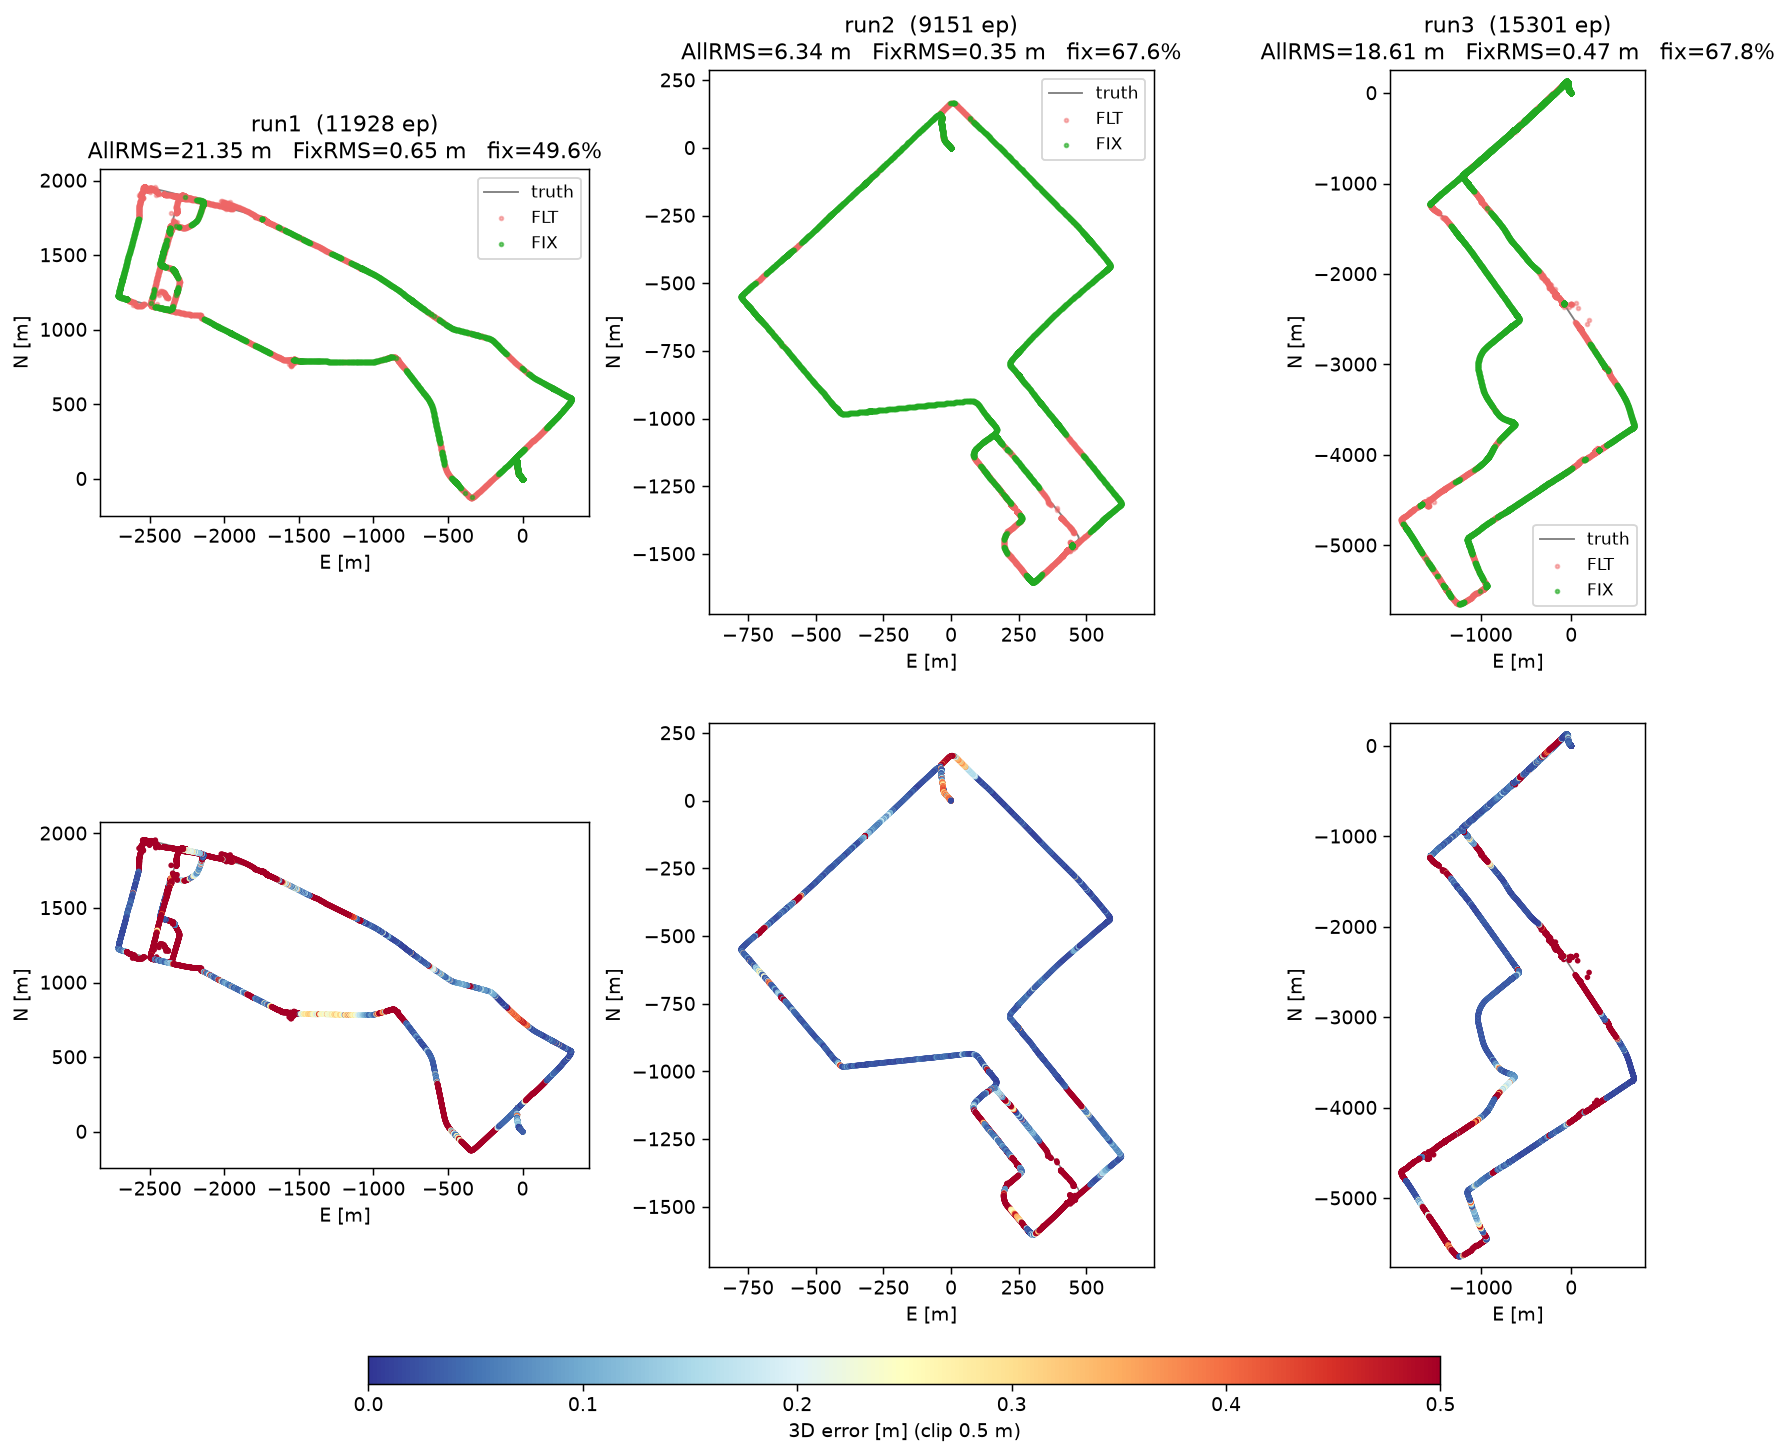
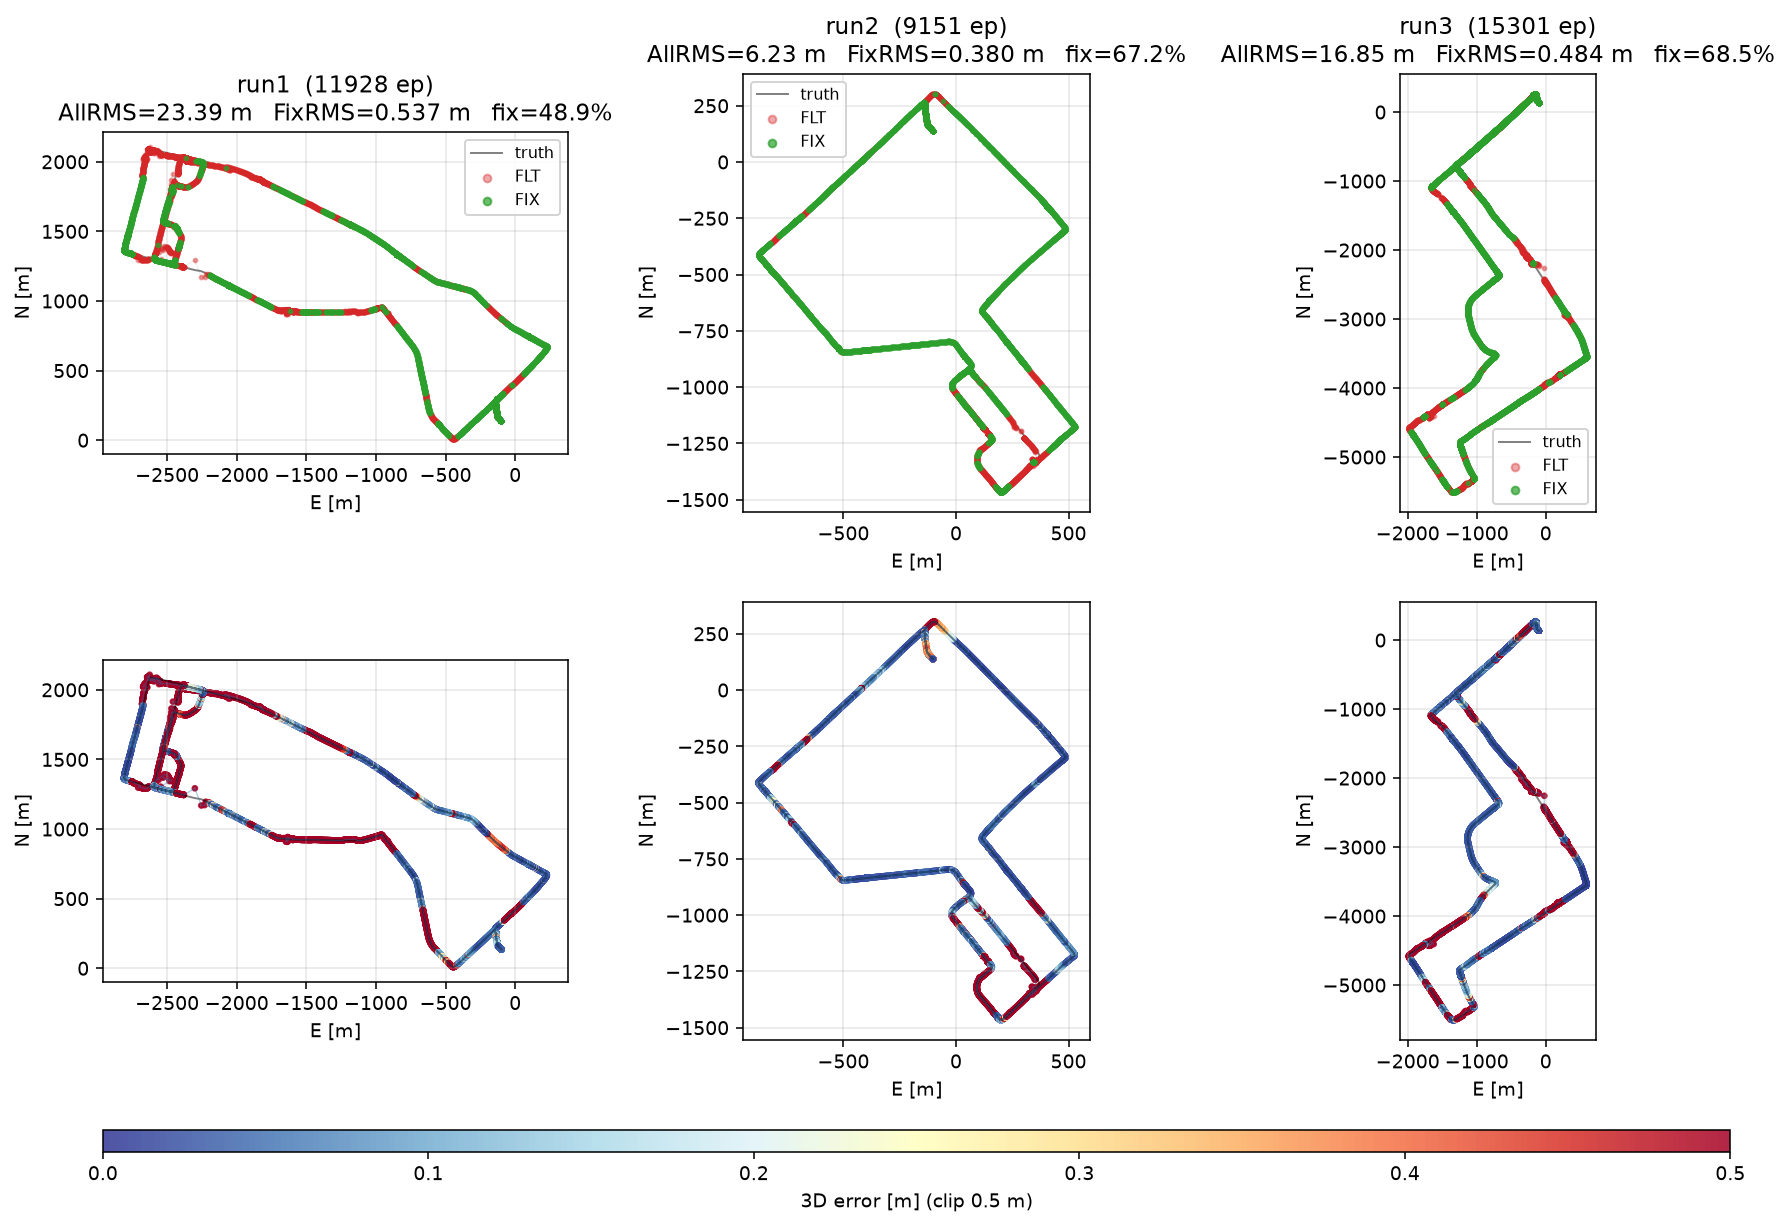
Phase-1 AR goes native: cssrlib resamb path retired (#32)
* Phase-1 AR goes native too: the cssrlib resamb path is gone

The old verdict — phase-1 native is ULP-chaotic, measured 35.49 — was
a misdiagnosis. The real failure: ar_problem.build read tc.isam2,
which is None until the Phase-2 transition (Phase 1 estimates on
tc.isam, the short-lag FLS), so every phase-1 epoch was
problem-unposed and the run never fixed at all (33.98 reproduced).
With the phase-aware smoother pick, phase-1 epochs match the cssrlib
baseline to print precision and the remaining forks are storm-zone
draw differences.

Also normalize a degenerate LAMBDA outcome at its source: held
ambiguities re-enter the search as exact fits, s0 collapses to FP
noise, and s1/s0 measures nothing — yet whichever garbage the FP draw
produced (an exact 0.0 or a denormal) was recorded and persisted in
prev_ratio2, arming or disarming the demo5 exclusion retry for every
later epoch. Clamp s0 to zero below a relative noise floor: the fix
itself is still accepted, only the no-information ratio is recorded
as such. This cut run1's native runaway (35.24 -> 23.29, vs pin
21.35; the residual gap is NLOS-storm lottery — the pinned draw's
own 10 m wrong fixes happen to anchor its float there).

Three-run A/B (AllRMS/FixRMS), single-machine sequential:
pin 21.3508/0.6449, 6.3376/0.3504, 18.6124/0.4727;
this branch 23.2939/0.7122, 6.3442/0.3509, 19.7163/0.5005.
Bit-parity with the pins is unreachable by construction in the
degenerate-hold regime; the open follow-up (which prev_ratio2
[…]

diff --git a/src/gnss_fgo/ar/__init__.py b/src/gnss_fgo/ar/__init__.py
@@ -10,7 +10,7 @@
 
 This package root wires them into the epoch flow (:func:`run_ar`) and keeps
 the monolith-era names importable -- callers and long-lived probes address
-``ar._resolve_native`` and friends unchanged.
+``ar._resolve`` and friends unchanged.
 """
 
 import numpy as np
@@ -25,17 +25,19 @@ from .ambiguity_resolver import AmbiguityResolver
 
 
 
-def _resolve_native(tc, sat_list, amb_dict):
-    """AR straight off the smoother, without the cssrlib nav round-trip.
+def _resolve(tc, sat_list, amb_dict):
+    """AR straight off the smoother (the only resolver since the cssrlib
+    resamb dispatch was retired).
 
     Three stages, one module each: :mod:`ar_problem` reads the smoother into
     a self-contained problem, :class:`AmbiguityResolver` fixes the integers,
     and :mod:`nav_bridge` publishes the side effects cssrlib's callers still
-    read. ``None`` means "fall back to the cssrlib path".
+    read. Always returns ``(nb, x)`` — a no-fix outcome is a result, not an
+    excuse to fall anywhere.
 
-    Equivalence with that path is measured, not assumed: shadowed in both
-    directions over tokyo run2 (4361 + 2422 calls) with identical nb and
-    ratio, and sequential 3000-epoch runs are line-identical.
+    Equivalence with the retired cssrlib dispatch was measured, not assumed:
+    shadowed in both directions over tokyo run2 (4361 + 2422 calls) with
+    identical nb and ratio, and sequential 3000-epoch runs line-identical.
     """
     problem = ar_problem.build(tc, sat_list, amb_dict)
     if problem is None:
@@ -83,10 +85,10 @@ def _resolve_native(tc, sat_list, amb_dict):
     return res.nb, xa
 
 
-def _resolve_native_retry(tc, sat_list, amb_dict):
-    """The demo5 retry policy around the native resolver (see ar_retry)."""
+def _resolve_with_retry(tc, sat_list, amb_dict):
+    """The demo5 retry policy around the resolver (see ar_retry)."""
     return ar_retry.run(
-        tc, sat_list, lambda t, sl: _resolve_native(t, sl, amb_dict))
+        tc, sat_list, lambda t, sl: _resolve(t, sl, amb_dict))
 
 
 def _run_single_ar_attempt(tc, sat, amb_dict, sat_exclude=None,
@@ -105,22 +107,9 @@ def _run_single_ar_attempt(tc, sat, amb_dict, sat_exclude=None,
                 if 1 <= s <= tc.nav.vsat.shape[0]:
                     tc.nav.vsat[s - 1, :] = 0
             sat_list = [s for s in sat_list if s not in excl]
-        if tc.phase != 2:
-            # Phase 1 resolves through cssrlib's resamb as the PARITY
-            # implementation, not a fallback: the native construction
-            # agrees to ~9 digits from the first attempt (probed), but
-            # the shared-key bootstrap problem is ULP-chaotic — the
-            # assembly-order difference alone forks the decision stream
-            # and was measured at 21.35 -> 35.49 AllRMS. Bit-parity
-            # requires cssrlib's exact arithmetic, which is this call.
-            if tc.cfg.rtklib_mode and hasattr(tc, 'resamb_lambda_rtklib'):
-                return tc.resamb_lambda_rtklib(sat_list)
-            return tc.resamb_lambda(sat_list, tc.nav.parmode,
-                                    tc.nav.par_P0)
-        native = (_resolve_native_retry(tc, sat_list, amb_dict)
-                  if tc.cfg.rtklib_mode
-                  else _resolve_native(tc, sat_list, amb_dict))
-        return native
+        return (_resolve_with_retry(tc, sat_list, amb_dict)
+                if tc.cfg.rtklib_mode
+                else _resolve(tc, sat_list, amb_dict))
     finally:
         if restore_state:
             tc.nav.vsat[:, :] = vsat_snapshot
@@ -173,26 +162,19 @@ def _record_amb_diagnostics(tc, sat, amb_dict):
 
 
 def _run_lambda_attempts(tc, sat, el, amb_dict):
-    """Phase B — call resamb_lambda (rtklib subset / rtklib / vanilla) with optional subset retry, then guard with lambda_zero / min_nb_gate. Returns (nb, xa) or (0, None) on any rejection."""
+    """Phase B — run the resolver (with the demo5 retry under rtklib_mode) plus optional subset retry, then guard with lambda_zero / min_nb_gate. Returns (nb, xa) or (0, None) on any rejection."""
     tc.ar_diag.resamb_raw_nb = -1
     try:
-        # Phase 2: native only (no fallback — problem-unposed epochs
-        # simply do not fix). Phase 1: cssrlib as the parity
-        # implementation, see _run_single_ar_attempt.
-        if tc.phase != 2:
-            if tc.cfg.rtklib_mode and hasattr(tc, 'resamb_lambda_rtklib'):
-                nb, xa = tc.resamb_lambda_rtklib(sat)
-            else:
-                nb, xa = tc.resamb_lambda(sat, tc.nav.parmode,
-                                          tc.nav.par_P0)
-        else:
-            sats = [int(x) for x in sat]
-            native = (_resolve_native_retry(tc, sats, amb_dict)
-                      if tc.cfg.rtklib_mode
-                      else _resolve_native(tc, sats, amb_dict))
-            nb, xa = native
-    except (Exception, SystemExit) as ex:
-        # cssrlib mlambda raises SystemExit when Qah is not positive definite
+        # One resolver, both phases (no fallback — problem-unposed
+        # epochs simply do not fix).
+        sats = [int(x) for x in sat]
+        nb, xa = (_resolve_with_retry(tc, sats, amb_dict)
+                  if tc.cfg.rtklib_mode
+                  else _resolve(tc, sats, amb_dict))
+    except Exception as ex:
+        # mlambda raises LambdaError (a LinAlgError) when Qah is not
+        # positive definite — a live path in the degenerate held-fit
+        # regime, not a can't-happen guard.
         tc.ar_diag.outcome = 'lambda_exception'
         tc.ar_diag.exception = f'{type(ex).__name__}: {ex}'
         return 0, None
@@ -202,7 +184,7 @@ def _run_lambda_attempts(tc, sat, el, amb_dict):
             and len(amb_dict) >= int(tc.cfg.subset_ar_min_nb) + 1):
         try:
             nb, xa = _try_subset_ar(tc, sat, el, amb_dict)
-        except (Exception, SystemExit) as ex:
+        except Exception as ex:
             tc.ar_diag.exception = f'{type(ex).__name__}: {ex}'
             nb, xa = 0, None
 

diff --git a/src/gnss_fgo/ar/nav_bridge.py b/src/gnss_fgo/ar/nav_bridge.py
@@ -78,15 +78,23 @@ def update_lock_counters(tc, sat_list):
 
 
 def publish_retry_success(tc, ratio):
-    """First-pass fix: prev_ratio2 follows it, the cursor resets."""
-    tc.nav.prev_ratio2 = ratio
+    """First-pass fix: prev_ratio2 follows it, the cursor resets.
+
+    A degenerate exact-fit success (ratio normalized to 0 by the
+    resolver's noise floor) measured nothing: keep the last real ratio
+    instead of overwriting the retry heuristic's memory with a
+    non-measurement.
+    """
+    if ratio > 0.0:
+        tc.nav.prev_ratio2 = ratio
     tc.nav.excsat = 0
 
 
 def publish_retry_outcome(tc, fixed, ratio, excluded_sat):
     """Second pass done: remember the exclusion only when it worked."""
     if fixed:
-        tc.nav.prev_ratio2 = ratio
+        if ratio > 0.0:
+            tc.nav.prev_ratio2 = ratio
         tc.nav.excsat = excluded_sat
     else:
         tc.nav.excsat = 0
@@ -94,7 +102,7 @@ def publish_retry_outcome(tc, fixed, ratio, excluded_sat):
 
 def publish_marginals(tc, factors, estimate, key_pose, amb_dict):
     """Write GTSAM Marginals to nav.P with ENU->ECEF rotation."""
-    # The native resolver reads the same marginals straight from ISAM2 and
+    # The resolver reads the same marginals straight from ISAM2 and
     # needs the very pose these were taken against, not tc.tc_epoch, which
     # still points at the previous epoch while AR runs.
     tc._ar_key_pose = key_pose

diff --git a/src/gnss_fgo/runner.py b/src/gnss_fgo/runner.py
@@ -63,13 +63,8 @@ class ImuGnssTc:
     def valpos(self, *a, **k):
         return self.engine.valpos(*a, **k)
 
-    # Ambiguity resolution (the cssrlib path; ar/ is the native one):
-    def resamb_lambda(self, *a, **k):
-        return self.engine.resamb_lambda(*a, **k)
-
-    def resamb_lambda_rtklib(self, *a, **k):
-        return self.engine.resamb_lambda_rtklib(*a, **k)
-
+    # AR bookkeeping still delegated to the cssrlib engine (the resolver
+    # itself lives in ar/):
     def ddidx(self, *a, **k):
         return self.engine.ddidx(*a, **k)
 
@@ -79,8 +74,8 @@ class ImuGnssTc:
     def IB(self, *a, **k):
         return self.engine.IB(*a, **k)
 
-    # The ratio stash lives on the engine (resamb_lambda writes it there);
-    # forwarding keeps one source of truth for both AR paths.
+    # The ratio stash lives on the engine; forwarding keeps one source of
+    # truth for the engine-side bookkeeping that still reads it.
     @property
     def _last_s0(self):
         return self.engine._last_s0
@@ -227,7 +222,7 @@ class ImuGnssTc:
         self._tc_fresh_amb_epochs = 0
         # Phase-1 last solution (used by velocity estimator)
         self._last_sol_ecef = None
-        # AR ratio stash (resamb_lambda writes s0/s1 here)
+        # AR ratio stash (nav_bridge.publish_attempt writes s0/s1 here)
         self._last_s0 = 0.0
         self._last_s1 = 0.0
 

diff --git a/src/gnss_fgo/ar/ambiguity_resolver.py b/src/gnss_fgo/ar/ambiguity_resolver.py
@@ -124,6 +124,17 @@ class AmbiguityResolver:
         b, s, nfix, ps = mlambda(y, Q, parmode=self.parmode, P0=self.par_p0)
         s0 = float(s[0]) if len(s) > 0 else 0.0
         s1 = float(s[1]) if len(s) > 1 else 0.0
+        if s0 <= 1e-12 * max(s1, 1.0):
+            # Exact-fit best candidate (held ambiguities re-entering the
+            # search): s0 is numerical noise, and s1/s0 measures nothing.
+            # Without this floor the FP draw between an exact 0.0 and a
+            # denormal decides the recorded ratio (0 vs astronomical),
+            # and that garbage value persists in prev_ratio2 where it
+            # arms or disarms the demo5 exclusion retry for every
+            # following epoch. Normalize to the no-ratio-information
+            # case; the s0 <= 0 acceptance branch below still accepts
+            # the fix itself.
+            s0 = 0.0
         ratio = 0.0 if s0 <= 0.0 else s1 / s0
         result = ResolverResult(ratio=ratio, s0=s0, s1=s1, nfix=int(nfix),
                           ps=float(ps), pairs=pairs)

diff --git a/src/gnss_fgo/ar/problem.py b/src/gnss_fgo/ar/problem.py
@@ -42,11 +42,11 @@ def build(tc, sat_list, amb_dict):
 
     ``None`` means "no fix this epoch": a missing pose key, fewer than
     two candidates, a marginals failure, or non-finite covariance.
-    Phase 1 resolves through cssrlib (parity implementation) and never
-    reaches here.
     """
-    smoother = tc.isam2
-    if tc.phase != 2 or smoother is None:
+    # Phase 1 estimates on its own short-lag smoother (tc.isam); tc.isam2
+    # only exists from the Phase-2 transition on.
+    smoother = tc.isam2 if tc.phase == 2 else tc.isam
+    if smoother is None:
         return None
     isam2 = smoother.getISAM2()
     if isam2 is None:

diff --git a/src/gnss_fgo/ar/subset.py b/src/gnss_fgo/ar/subset.py
@@ -81,7 +81,7 @@ def try_subset_ar(tc, sat, el, amb_dict, attempt):
                 continue
             # Quantize the ratio so ULP noise cannot outrank the
             # deliberate smaller-k tie-break: a no-op exclusion (a sat
-            # not even in the DD set) perturbs the native problem's
+            # not even in the DD set) perturbs the problem's
             # summation order by one variable and shifted the ratio in
             # the 13th digit — enough for (ratio, nb, -k) to prefer a
             # 2-sat drop over the equal 1-sat drop (ep1539, run1).

diff --git a/src/gnss_fgo/ar/retry.py b/src/gnss_fgo/ar/retry.py
@@ -9,8 +9,8 @@ ratio just dropped below threshold relative to ``prev_ratio2``.
 
 All persistent state (lock counters, cursor, previous ratios) lives on
 ``nav`` through :mod:`nav_bridge` -- next epoch's decisions read it there,
-and keeping any of it on private attributes instead made the cssrlib and
-native runs choose different exclusions from ep127 of tokyo run2 onward.
+and keeping any of it on private attributes instead measurably changed
+which exclusions later epochs chose.
 """
 
 from . import nav_bridge

diff --git a/README.md b/README.md
@@ -26,9 +26,10 @@ and tunnels.
 - **Integrity & recovery** — three slip/multipath detectors, post-fit
   FDE, and an escalation ladder from CP-hold to warm reset
 - **Default-on vs. opt-in** — the results below use the defaults
-  (DD + carrier + SD Doppler + NHC/ZUPT + LAMBDA via the cssrlib
-  resolver). The native Python resolver is implemented but ships
-  disabled.
+  (DD + carrier + SD Doppler + NHC/ZUPT + LAMBDA). Ambiguity
+  resolution runs on the in-repo resolver, which reads the smoother's
+  joint marginals directly; cssrlib remains the RINEX/ephemeris
+  front-end and residual/validation engine.
 - **Contributed upstream** — the DD, Doppler and undifferenced GNSS
   factors are merged into
   [GTSAM](https://github.com/borglab/gtsam) itself; see the
@@ -46,9 +47,9 @@ end to end:
 
 | run  | length    | AllRMS  | median  | FixRMS  | fix %  | <50 cm |
 |------|-----------|---------|---------|---------|--------|--------|
-| run1 | 11928 ep  | 21.35 m | 0.23 m  | 0.65 m  | 49.6 % | 55.4 % |
-| run2 |  9151 ep  |  6.34 m | 0.053 m | 0.35 m  | 67.6 % | 75.4 % |
-| run3 | 15301 ep  | 18.61 m | 0.051 m | 0.47 m  | 67.8 % | 71.5 % |
+| run1 | 11928 ep  | 23.39 m | 0.26 m  | 0.54 m  | 48.9 % | 55.2 % |
+| run2 |  9151 ep  |  6.23 m | 0.053 m | 0.38 m  | 67.2 % | 77.3 % |
+| run3 | 15301 ep  | 16.85 m | 0.047 m | 0.48 m  | 68.5 % | 75.7 % |
 
 run1 is the hardest route — a deep canyon plus a full tunnel blackout,
 bridged by IMU + SD Doppler dead reckoning.
